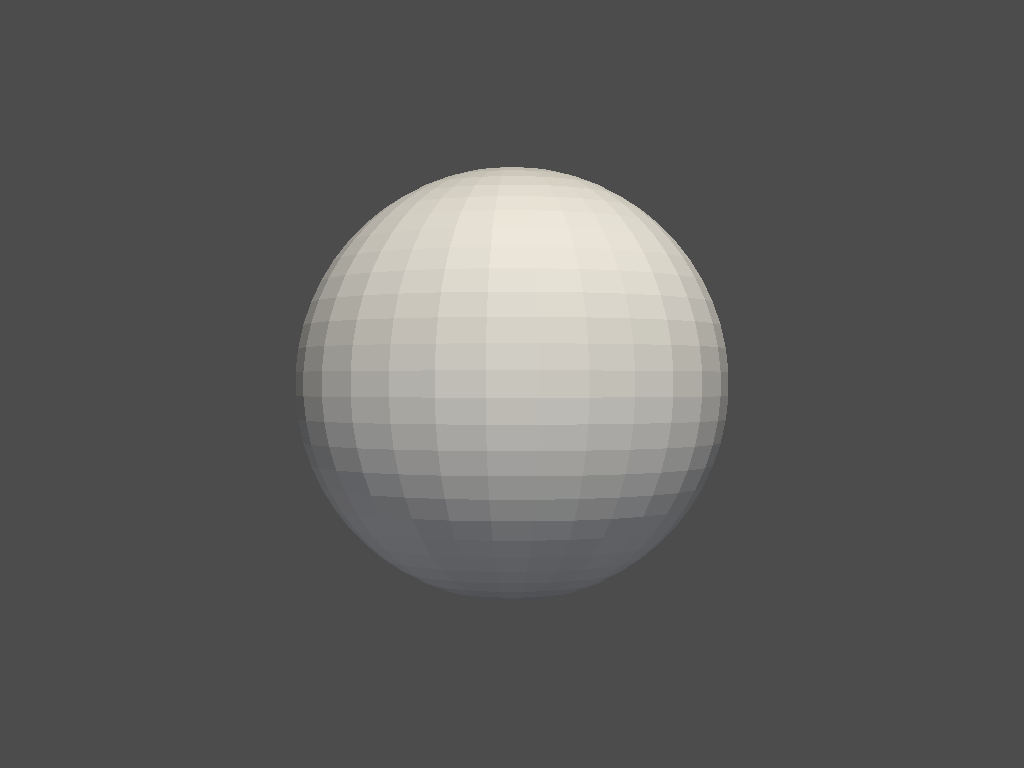
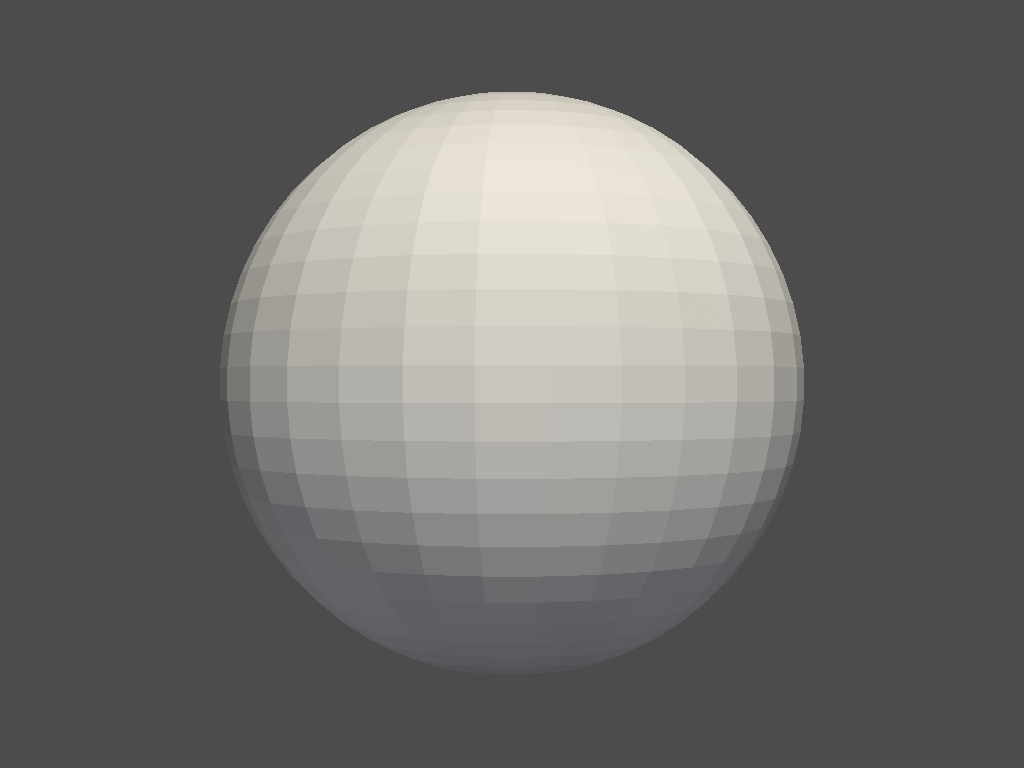
update: corrected the code for right T matrix

Changed region(s): [[0.2188, 0.0938, 0.8125, 0.8125]]

diff --git a/generate_sphere.py b/generate_sphere.py
@@ -13,13 +13,14 @@ positions = [
     [0, -5, 0],   # bottom view
     [-5, 0, 0],   # left view
 ]
-
+# while True:
 for i, pos in enumerate(positions):
-    plotter.camera_position = pos
+    # plotter.camera_position = pos
+    plotter.camera.position = pos
+    # plotter.camera_set = True
     camera = plotter.camera
     trans_matrix = camera.GetViewTransformMatrix()
     # trans_matrix = plotter.get_view_matrix()
     plotter.show(title=f"View {i+1}",screenshot=f"./generated_views/view{i+1}.png",interactive_update=True)
+    print(plotter.camera.position)
     print(trans_matrix)
-
-
